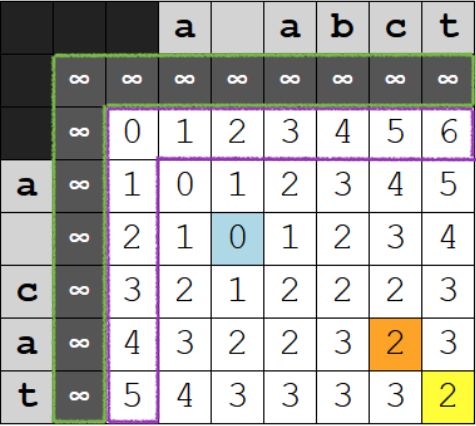
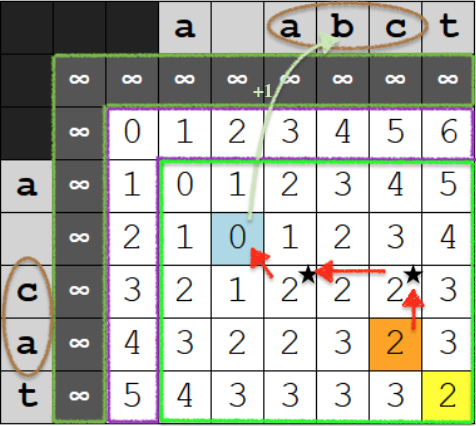
modified tutoria edit distance

diff --git a/wiki/Tutorials/edit-distances-tutorial.md b/wiki/Tutorials/edit-distances-tutorial.md
@@ -15,11 +15,19 @@ Also, Edit Distance has properties of dynamic programming because the basic prin
 
  #  How does edit distance algorithm works ? 
 
- The idea is to build a distance matrix. Here we're gonna show the progress of the retricted Damerau-Levenshtein and the full Damerau-Levenshtein algorithm. By explaining these two algorithms you will understand the Levenshtein algorithm as well since they are based on this last.
+ The idea is to build a distance matrix. Here we're going to show the progress of the retricted Damerau-Levenshtein and the full Damerau-Levenshtein algorithm. By explaining these two algorithms you will understand the Levenshtein algorithm as well since they are based on this last one.
 
 ### Restricted Damerau-Levenshtein distance :  
 
 For 2 words, such as 'a cat' and 'an act', a matrix of size 5x6 is created as shown in the next figure. Note that the row and column surrounded by purple are not part of the matrix they are just added for clarity. 
+
+For calculating the cost of each cell we procede by using this equation :
+
+ ![](./img/formuleRDL.png)   
+
+We can represent this equation with the matrix bellow. Note that the min caculated is represented by the red arrows.
+
+
 
 ![](./img/RDL.png)
 
@@ -83,7 +91,7 @@ Below, we show two different pairs of long local alignments of a single pair of 
 
 
 ### Why sequence alignment?
-•  Assembling fragments to sequence DNA
+•  Assembling fragments to sequence DNA  
 •  Compare individuals to looking for mutations
 
 
